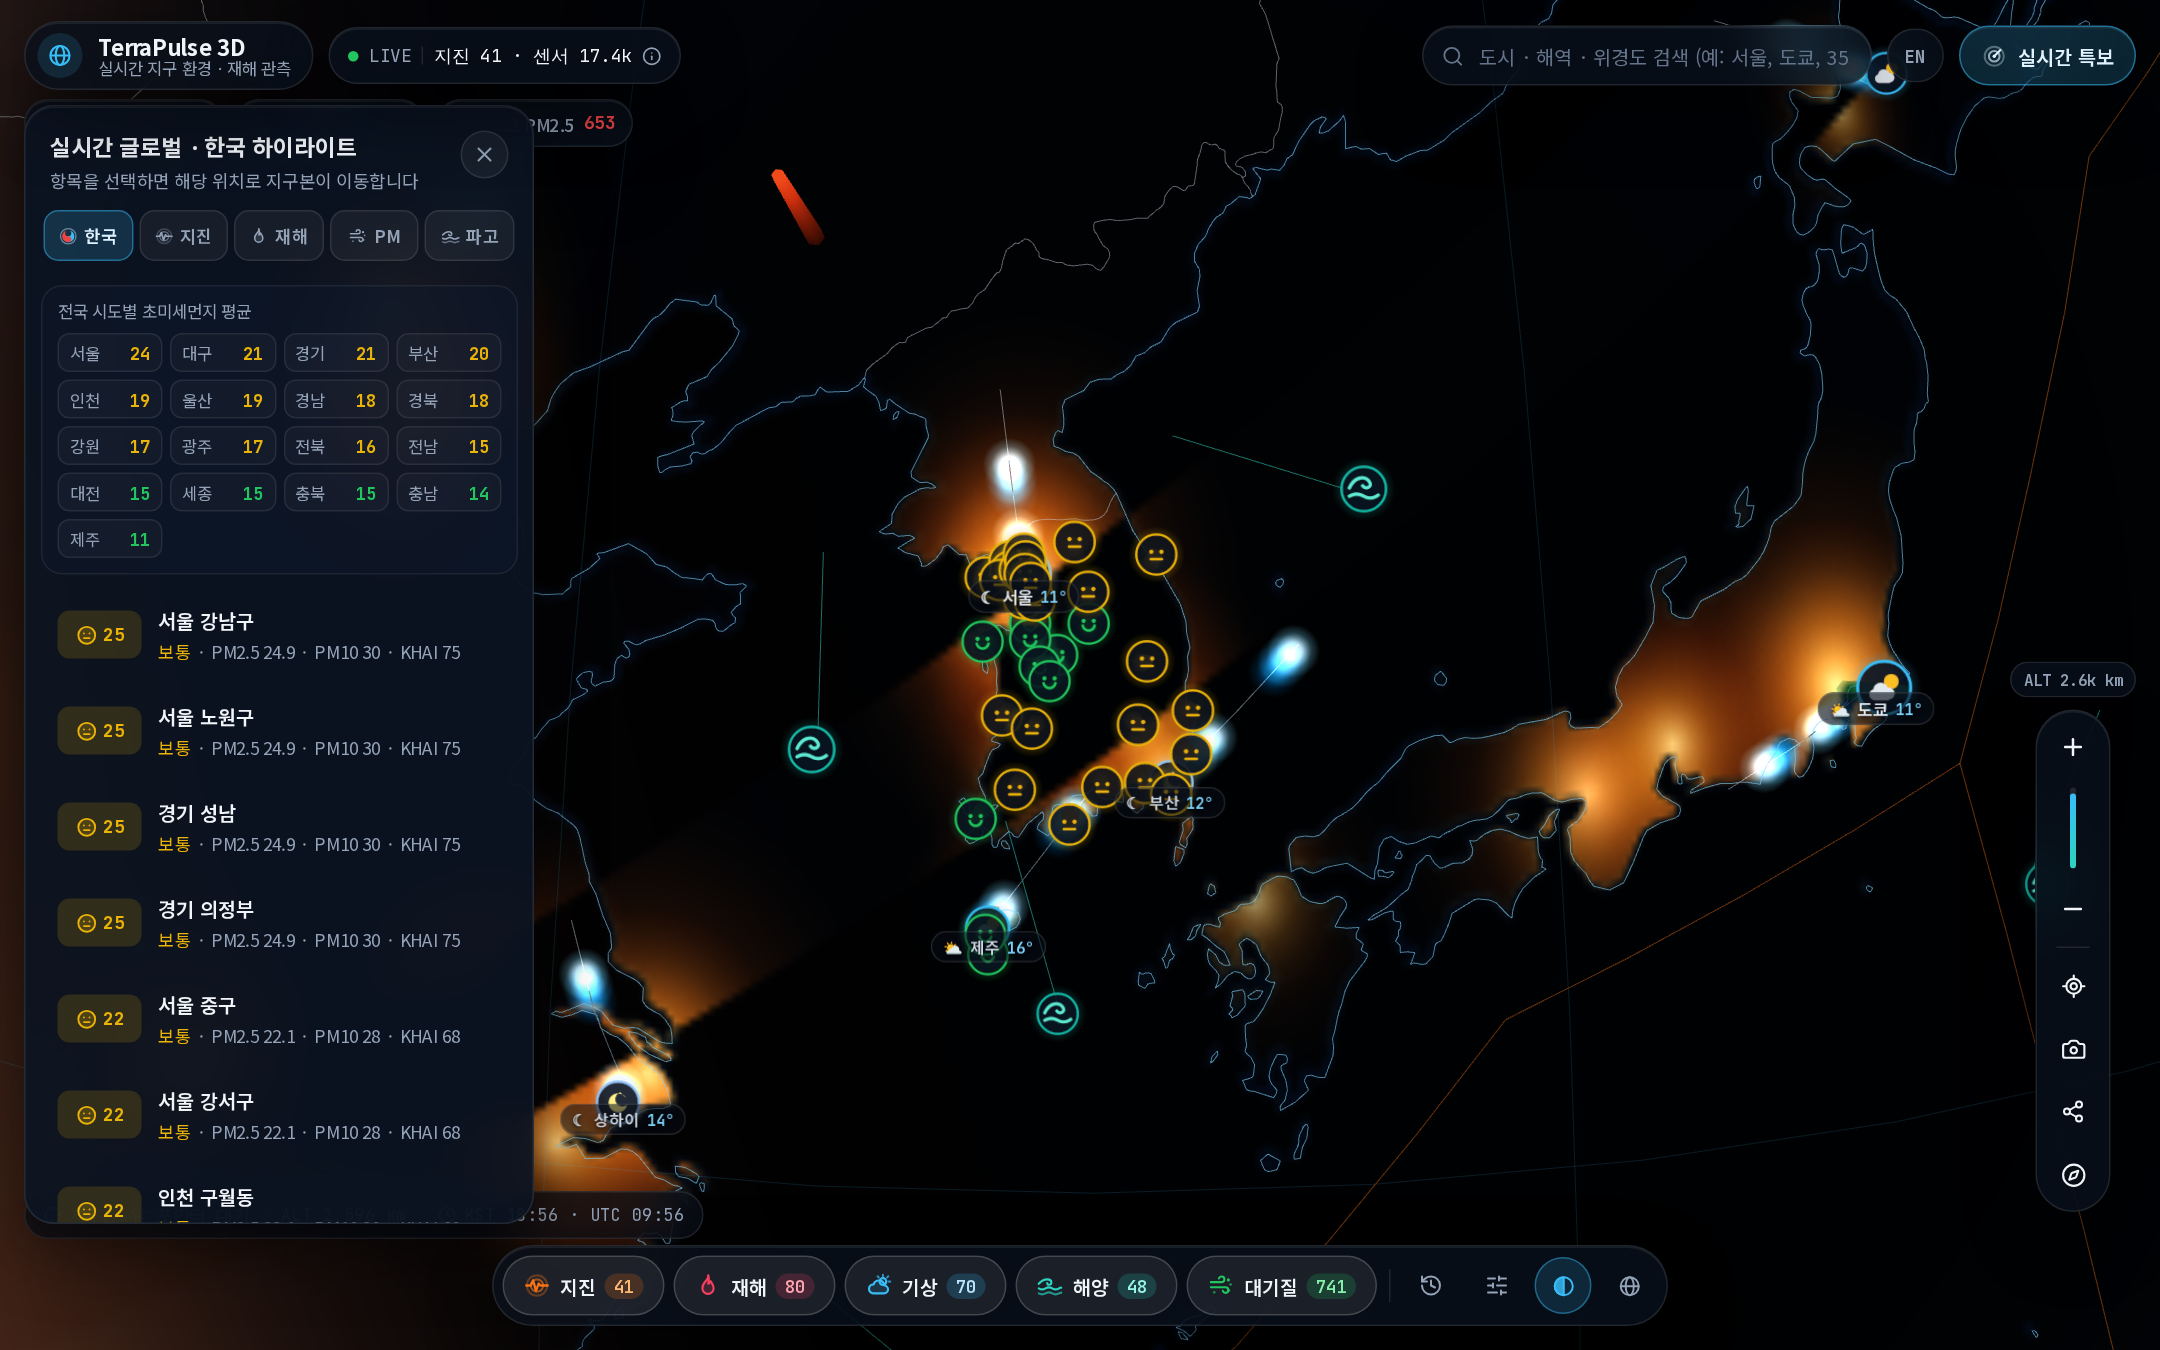
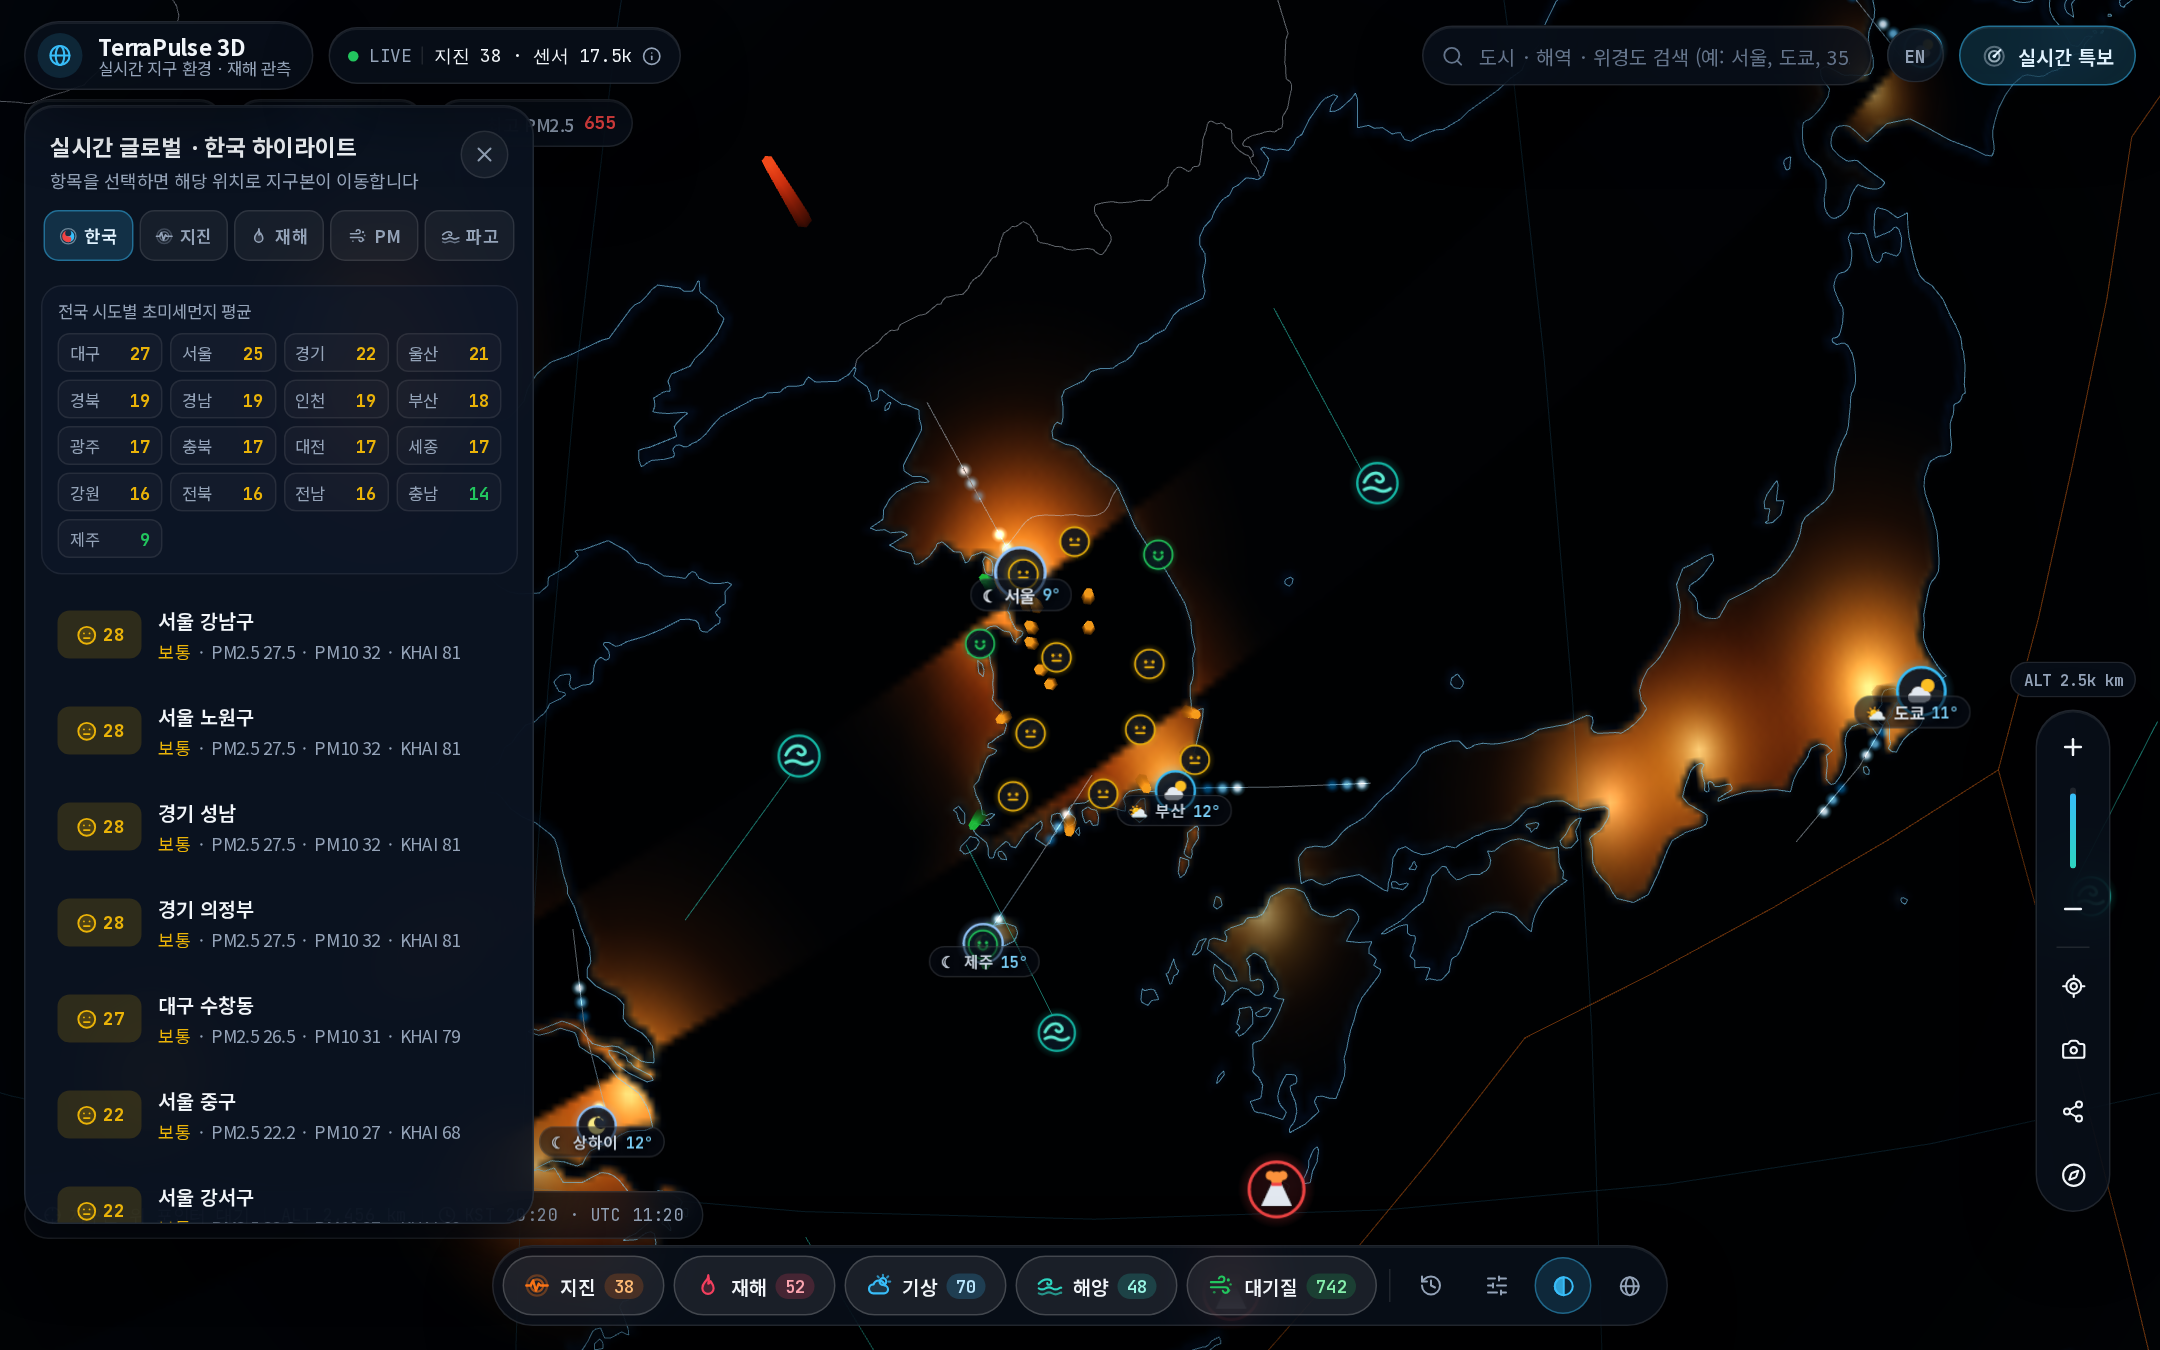
fix: add 2D screen-space decluttering for dense AQI badges/quakes and altitude-adaptive wind droplet sizing

diff --git a/src/components/EarthGlobe.tsx b/src/components/EarthGlobe.tsx
@@ -80,6 +80,8 @@ interface ScalableSprite {
   baseScale: number;
   minDist?: number;
   maxDist?: number;
+  normal?: THREE.Vector3;
+  priority?: number;
 }
 
 const EARTH_RADIUS = 1.0;
@@ -403,6 +405,7 @@ export default function EarthGlobe({
     };
     windParticles?: {
       geo: THREE.BufferGeometry;
+      mat: THREE.PointsMaterial;
       starts: THREE.Vector3[];
       ends: THREE.Vector3[];
       speeds: number[];
@@ -792,16 +795,16 @@ export default function EarthGlobe({
 
       const candidates: THREE.Object3D[] = [];
       if (d.layers.earthquakes && h.quakeSprites) {
-        for (const s of h.quakeSprites) candidates.push(s.sprite);
+        for (const s of h.quakeSprites) if (s.sprite.visible) candidates.push(s.sprite);
       }
       if (d.layers.disasters && h.disasterSprites) {
-        for (const s of h.disasterSprites) candidates.push(s.sprite);
+        for (const s of h.disasterSprites) if (s.sprite.visible) candidates.push(s.sprite);
       }
       if (d.layers.weather && h.weatherSprites) {
-        for (const s of h.weatherSprites) candidates.push(s.sprite);
+        for (const s of h.weatherSprites) if (s.sprite.visible) candidates.push(s.sprite);
       }
       if (d.layers.ocean && h.oceanSprites) {
-        for (const s of h.oceanSprites) candidates.push(s.sprite);
+        for (const s of h.oceanSprites) if (s.sprite.visible) candidates.push(s.sprite);
       }
       if (d.layers.airQuality && h.airBadgeSprites) {
         for (const s of h.airBadgeSprites) {
@@ -1157,7 +1160,11 @@ export default function EarthGlobe({
       }
 
       // Altitude-adaptive billboard icon scaling so icons stay sharp & uncrowded at EVERY zoom level!
-      const spriteScale = Math.max(0.28, Math.min(1.12, (camDist - 0.88) / 1.75));
+      const spriteScale = Math.max(0.24, Math.min(1.08, (camDist - 0.94) / 1.72));
+      const viewW = container.clientWidth || window.innerWidth;
+      const viewH = container.clientHeight || window.innerHeight;
+      camDir.copy(camera.position).normalize();
+
       const scaleSpriteList = (list?: ScalableSprite[]) => {
         if (!list) return;
         for (let i = 0; i < list.length; i++) {
@@ -1176,25 +1183,86 @@ export default function EarthGlobe({
         }
       };
 
-      if (h.quakeGroup?.visible) scaleSpriteList(h.quakeSprites);
-      if (h.disasterGroup?.visible) scaleSpriteList(h.disasterSprites);
-      if (h.weatherGroup?.visible) scaleSpriteList(h.weatherSprites);
-      if (h.oceanGroup?.visible) scaleSpriteList(h.oceanSprites);
-      if (h.airGroup?.visible) scaleSpriteList(h.airBadgeSprites);
+      // Screen-space 2D collision decluttering: guarantees ZERO overlapping icon walls
+      // even when 150+ live Korean AirKorea stations are active; zooming in progressively reveals more!
+      const scaleDeclutteredSprites = (
+        list: ScalableSprite[] | undefined,
+        minSepPx: number,
+        maxVisible: number
+      ) => {
+        if (!list || list.length === 0) return;
+        const minSepSq = minSepPx * minSepPx;
+        const placedX: number[] = [];
+        const placedY: number[] = [];
+        let shown = 0;
 
-      // Altitude-adaptive PM2.5 pillar/bubble scaling for ultra-crisp dense regional readability
+        for (let i = 0; i < list.length; i++) {
+          const item = list[i];
+          if (shown >= maxVisible) {
+            item.sprite.visible = false;
+            continue;
+          }
+          if (item.maxDist !== undefined && camDist > item.maxDist) {
+            item.sprite.visible = false;
+            continue;
+          }
+          if (item.minDist !== undefined && camDist < item.minDist) {
+            item.sprite.visible = false;
+            continue;
+          }
+          if (item.normal && item.normal.dot(camDir) < 0.14) {
+            item.sprite.visible = false;
+            continue;
+          }
+
+          projVec.copy(item.sprite.position).project(camera);
+          if (projVec.z > 1) {
+            item.sprite.visible = false;
+            continue;
+          }
+          const sx = (projVec.x * 0.5 + 0.5) * viewW;
+          const sy = (-projVec.y * 0.5 + 0.5) * viewH;
+          if (sx < -24 || sx > viewW + 24 || sy < -24 || sy > viewH + 24) {
+            item.sprite.visible = false;
+            continue;
+          }
+
+          let collides = false;
+          for (let j = 0; j < placedX.length; j++) {
+            const dx = sx - placedX[j];
+            const dy = sy - placedY[j];
+            if (dx * dx + dy * dy < minSepSq) {
+              collides = true;
+              break;
+            }
+          }
+          if (collides) {
+            item.sprite.visible = false;
+            continue;
+          }
+
+          placedX.push(sx);
+          placedY.push(sy);
+          shown++;
+          item.sprite.visible = true;
+          const s = item.baseScale * spriteScale;
+          item.sprite.scale.set(s, s, 1);
+        }
+      };
+
+      // Altitude-adaptive PM2.5 pillar/bubble scaling (runs before badge decluttering so badge pos is fresh)
       if (h.airGroup?.visible && h.airMesh && h.airInstances && h.airInstances.length > 0) {
-        const airScale = Math.max(0.32, Math.min(1.0, (camDist - 0.92) / 1.65));
+        const airScale = Math.max(0.28, Math.min(1.0, (camDist - 0.92) / 1.65));
         if (h.lastAirScale === undefined || Math.abs(airScale - h.lastAirScale) > 0.015) {
           h.lastAirScale = airScale;
-          const wScale = 0.44 + airScale * 0.56;
-          const hScale = 0.28 + airScale * 0.72;
+          const wScale = 0.34 + airScale * 0.66;
+          const hScale = 0.22 + airScale * 0.78;
           for (let i = 0; i < h.airInstances.length; i++) {
             const meta = h.airInstances[i];
             airDummy.position.copy(meta.pos);
             airDummy.quaternion.copy(meta.quat);
             if (meta.mode === "bubble") {
-              const bs = meta.baseWidth * (0.48 + airScale * 0.52);
+              const bs = meta.baseWidth * (0.42 + airScale * 0.58);
               airDummy.scale.set(bs, bs, bs);
             } else {
               const effH = meta.baseHeight * hScale;
@@ -1202,7 +1270,7 @@ export default function EarthGlobe({
               if (meta.badgeSprite) {
                 meta.badgeSprite.position
                   .copy(meta.normal)
-                  .multiplyScalar(EARTH_RADIUS + effH + 0.011 * spriteScale);
+                  .multiplyScalar(EARTH_RADIUS + effH + 0.009 * spriteScale);
               }
             }
             airDummy.updateMatrix();
@@ -1210,6 +1278,14 @@ export default function EarthGlobe({
           }
           h.airMesh.instanceMatrix.needsUpdate = true;
         }
+      }
+
+      if (h.quakeGroup?.visible) scaleDeclutteredSprites(h.quakeSprites, isMobile ? 24 : 20, 48);
+      if (h.disasterGroup?.visible) scaleSpriteList(h.disasterSprites);
+      if (h.weatherGroup?.visible) scaleSpriteList(h.weatherSprites);
+      if (h.oceanGroup?.visible) scaleSpriteList(h.oceanSprites);
+      if (h.airGroup?.visible) {
+        scaleDeclutteredSprites(h.airBadgeSprites, isMobile ? 42 : 38, isMobile ? 16 : 26);
       }
 
       if (h.pulseRings && h.quakeGroup?.visible) {
@@ -1223,7 +1299,9 @@ export default function EarthGlobe({
       }
 
       if (h.windParticles && h.windStreamGroup?.visible) {
-        const { geo, starts, ends, speeds, phases, trailCount } = h.windParticles;
+        const { geo, mat, starts, ends, speeds, phases, trailCount } = h.windParticles;
+        // Scale wind droplets delicately at close zoom so they never bloom into blurry orbs
+        mat.size = THREE.MathUtils.lerp(0.0085, 0.025, 1 - zoomNorm);
         const posAttr = geo.getAttribute("position") as THREE.BufferAttribute;
         const arr = posAttr.array as Float32Array;
         for (let i = 0; i < starts.length; i++) {
@@ -1439,12 +1517,19 @@ export default function EarthGlobe({
       sprite.scale.set(baseScale, baseScale, 1);
       sprite.userData = { kind: "earthquake", index: idx };
       group.add(sprite);
-      h.quakeSprites!.push({ sprite, baseScale });
+      h.quakeSprites!.push({
+        sprite,
+        baseScale,
+        normal: new THREE.Vector3(x, y, z).normalize(),
+        priority: q.mag + (q.tsunami ? 10 : 0),
+      });
 
       color.set(getMagnitudeColor(q.mag));
       stemPos.push(bx, by, bz, x, y, z);
       stemCol.push(color.r, color.g, color.b, color.r, color.g, color.b);
     });
+
+    h.quakeSprites!.sort((a, b) => (b.priority ?? 0) - (a.priority ?? 0));
 
     const stemGeo = new THREE.BufferGeometry();
     stemGeo.setAttribute("position", new THREE.Float32BufferAttribute(stemPos, 3));
@@ -1598,22 +1683,18 @@ export default function EarthGlobe({
     const partGeo = new THREE.BufferGeometry();
     partGeo.setAttribute("position", new THREE.BufferAttribute(partPositions, 3));
     partGeo.setAttribute("color", new THREE.BufferAttribute(partColors, 3));
-    streamGroup.add(
-      new THREE.Points(
-        partGeo,
-        new THREE.PointsMaterial({
-          map: h.windDropSprite,
-          vertexColors: true,
-          size: 0.032,
-          transparent: true,
-          opacity: 0.94,
-          blending: THREE.AdditiveBlending,
-          depthWrite: false,
-          sizeAttenuation: true,
-        })
-      )
-    );
-    h.windParticles = { geo: partGeo, starts, ends, speeds, phases, trailCount };
+    const partMat = new THREE.PointsMaterial({
+      map: h.windDropSprite,
+      vertexColors: true,
+      size: 0.022,
+      transparent: true,
+      opacity: 0.9,
+      blending: THREE.AdditiveBlending,
+      depthWrite: false,
+      sizeAttenuation: true,
+    });
+    streamGroup.add(new THREE.Points(partGeo, partMat));
+    h.windParticles = { geo: partGeo, mat: partMat, starts, ends, speeds, phases, trailCount };
   }, [weather]);
 
   // 5. Rebuild Ocean Wave Crest Icon Sprites + Current Vectors
@@ -1732,6 +1813,18 @@ export default function EarthGlobe({
     const color = new THREE.Color();
     const metas: AirInstanceMeta[] = [];
 
+    // Pick 1 highest-PM2.5 representative cluster per Korean Sido so 17 provinces are prioritized cleanly
+    const sidoBestIdx = new Map<string, { idx: number; pm25: number }>();
+    airQuality.forEach((cluster, idx) => {
+      if (cluster.country !== "KR") return;
+      const sido = cluster.sidoName || cluster.stationName?.split(" ")[0] || "KR";
+      const prev = sidoBestIdx.get(sido);
+      if (!prev || cluster.pm25 > prev.pm25) {
+        sidoBestIdx.set(sido, { idx, pm25: cluster.pm25 });
+      }
+    });
+    const sidoRepIndices = new Set(Array.from(sidoBestIdx.values()).map((v) => v.idx));
+
     airQuality.forEach((cluster, idx) => {
       const surfaceElev = isBubble ? 0.0075 : 0.002;
       const [x, y, z] = latLngToVector3(cluster.lat, cluster.lng, EARTH_RADIUS + surfaceElev);
@@ -1743,7 +1836,7 @@ export default function EarthGlobe({
       const widthBoost = isBubble
         ? Math.min(1.65, 0.72 + Math.sqrt(cluster.pm25) * 0.085)
         : cluster.country === "KR"
-          ? 0.78
+          ? 0.62
           : Math.min(1.28, 0.78 + Math.log10(Math.max(1, cluster.sensorCount)) * 0.18);
 
       dummy.position.copy(pos);
@@ -1761,7 +1854,7 @@ export default function EarthGlobe({
 
       let badgeSprite: THREE.Sprite | undefined;
       if (cluster.country === "KR" || cluster.pm25 >= 75) {
-        const badgeElev = isBubble ? 0.022 : barHeight + 0.012;
+        const badgeElev = isBubble ? 0.02 : barHeight + 0.01;
         const topPos = normal.clone().multiplyScalar(EARTH_RADIUS + badgeElev);
         const aqiKey = classifyAqiIcon(cluster.pm25);
         const sMat = new THREE.SpriteMaterial({
@@ -1771,15 +1864,24 @@ export default function EarthGlobe({
         });
         const badge = new THREE.Sprite(sMat);
         badge.position.copy(topPos);
-        const baseScale = cluster.country === "KR" ? 0.04 : 0.046;
+        const baseScale = cluster.country === "KR" ? 0.032 : 0.044;
         badge.scale.set(baseScale, baseScale, 1);
         badge.userData = { kind: "air", index: idx };
         group.add(badge);
         badgeSprite = badge;
+
+        const isSidoRep = sidoRepIndices.has(idx);
+        const priority =
+          (cluster.pm25 >= 75 ? 3000 : cluster.pm25 >= 36 ? 2000 : 0) +
+          (isSidoRep ? 1000 : 0) +
+          cluster.pm25;
+
         h.airBadgeSprites!.push({
           sprite: badge,
           baseScale,
           maxDist: cluster.country === "KR" ? 1.85 : 3.2,
+          normal,
+          priority,
         });
       }
 
@@ -1793,6 +1895,8 @@ export default function EarthGlobe({
         badgeSprite,
       });
     });
+
+    h.airBadgeSprites!.sort((a, b) => (b.priority ?? 0) - (a.priority ?? 0));
 
     inst.instanceMatrix.needsUpdate = true;
     if (inst.instanceColor) inst.instanceColor.needsUpdate = true;
